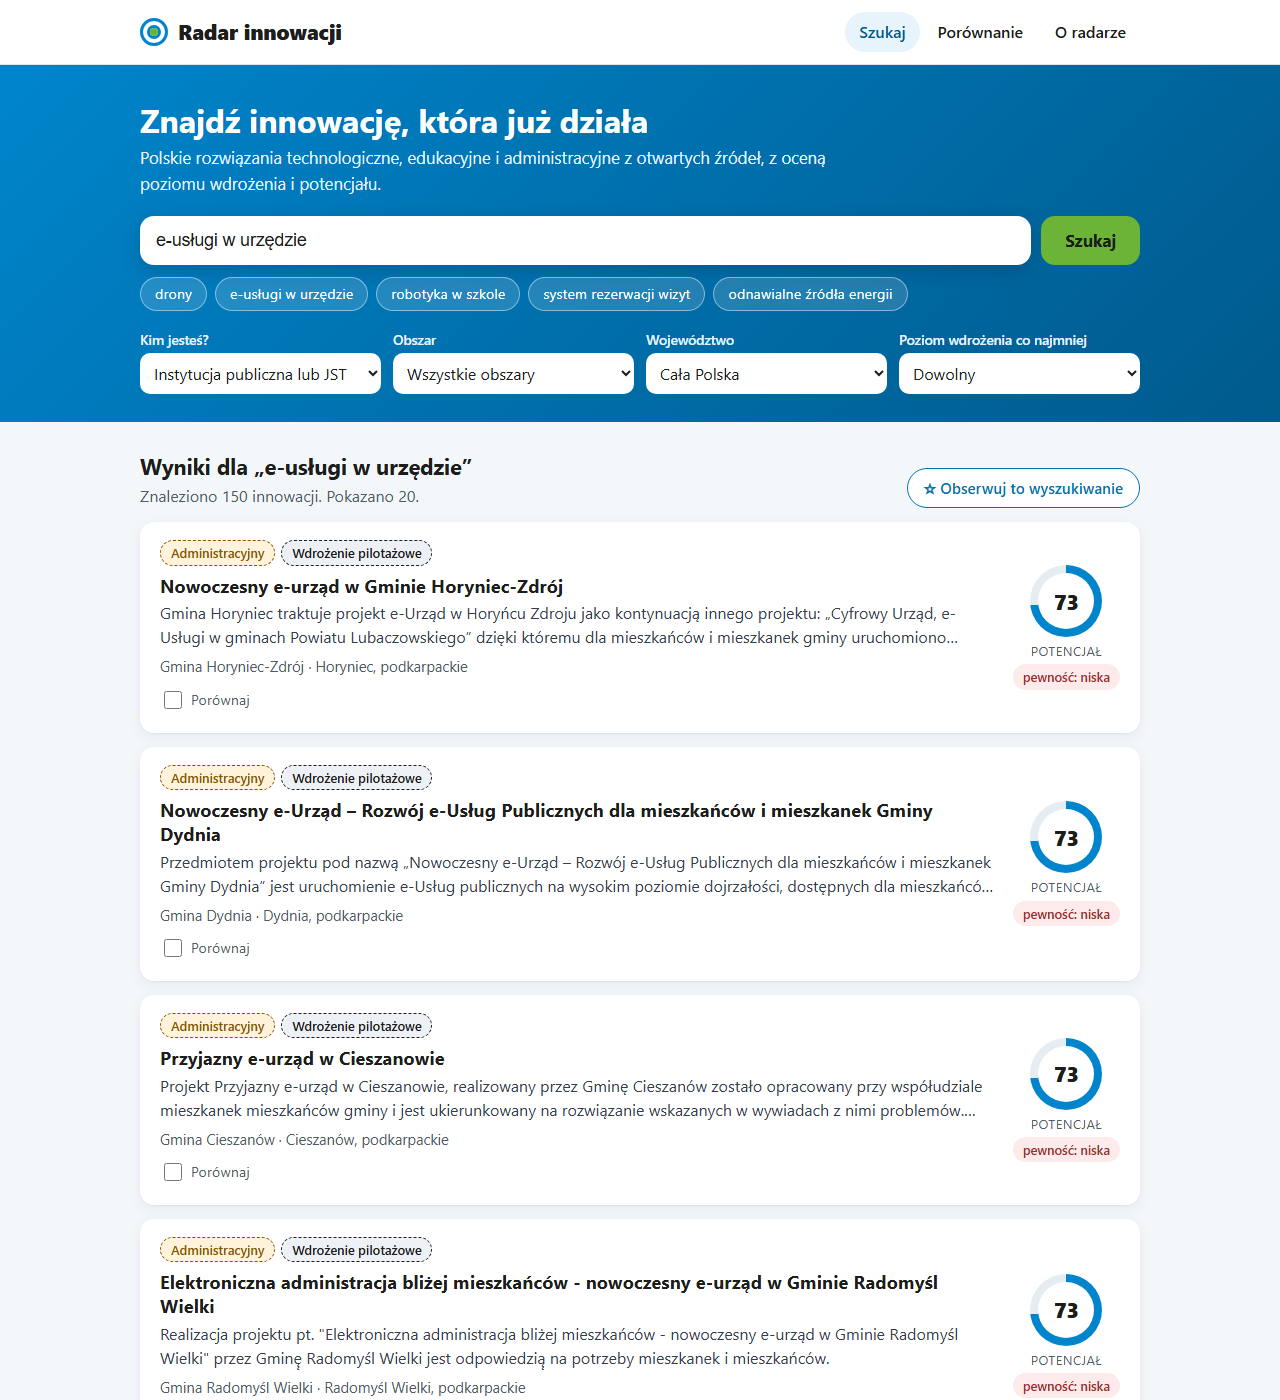
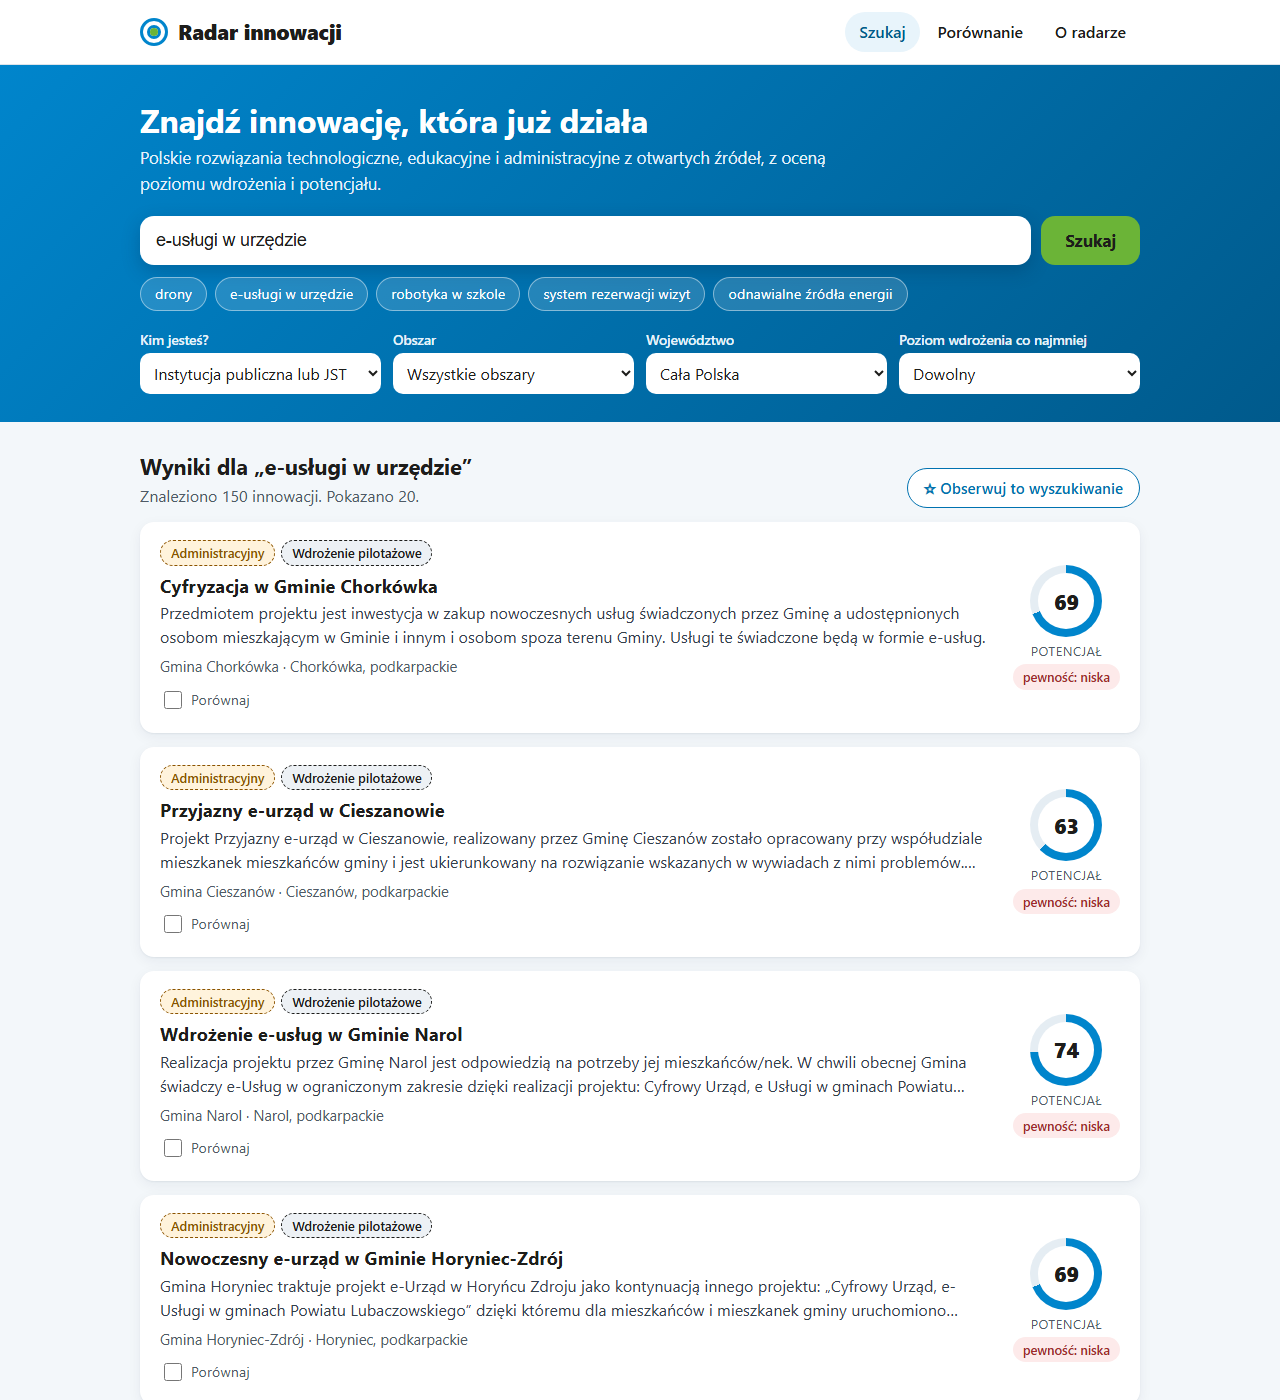
Take the screenshots again with the K4 estimate and the new search order (#53)

diff --git a/docs/WORKLOG.md b/docs/WORKLOG.md
@@ -2,6 +2,12 @@
 
 Add an entry after each step of work. Give the date, the person and the changes. The newest entry is at the top.
 
+## 2026-11-22, MikolajRowicki (branches 50-readme-times and 54-screenshots)
+
+- README: the real times of the update. The first run takes about 20 minutes (NCBR, Kohesio and the competition pages have pauses), later runs about 4 minutes with the page cache.
+- Take the screenshots in `docs/screenshots/` again: they now show the K4 estimate and the new order of the search.
+- Comments for the team: numbers and slide fixes in #17, a video script in #18, the submission checklist in #19.
+
 ## 2026-11-22, MikolajRowicki (branch 48-search-coverage)
 
 - The search joins the words of a query with OR. Thus a card with only one frequent word ("szkoła") could be above a card with all the words.
